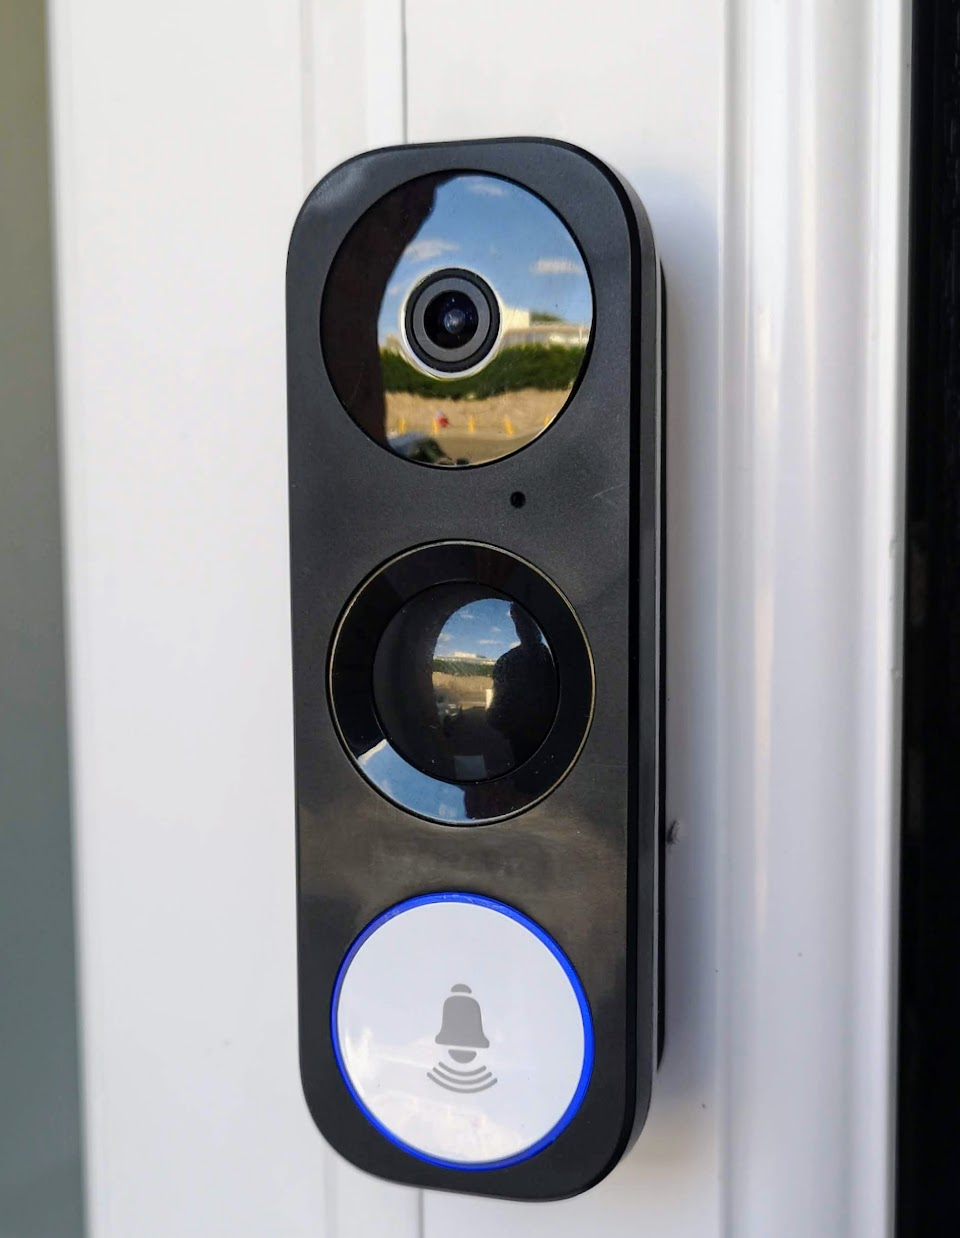
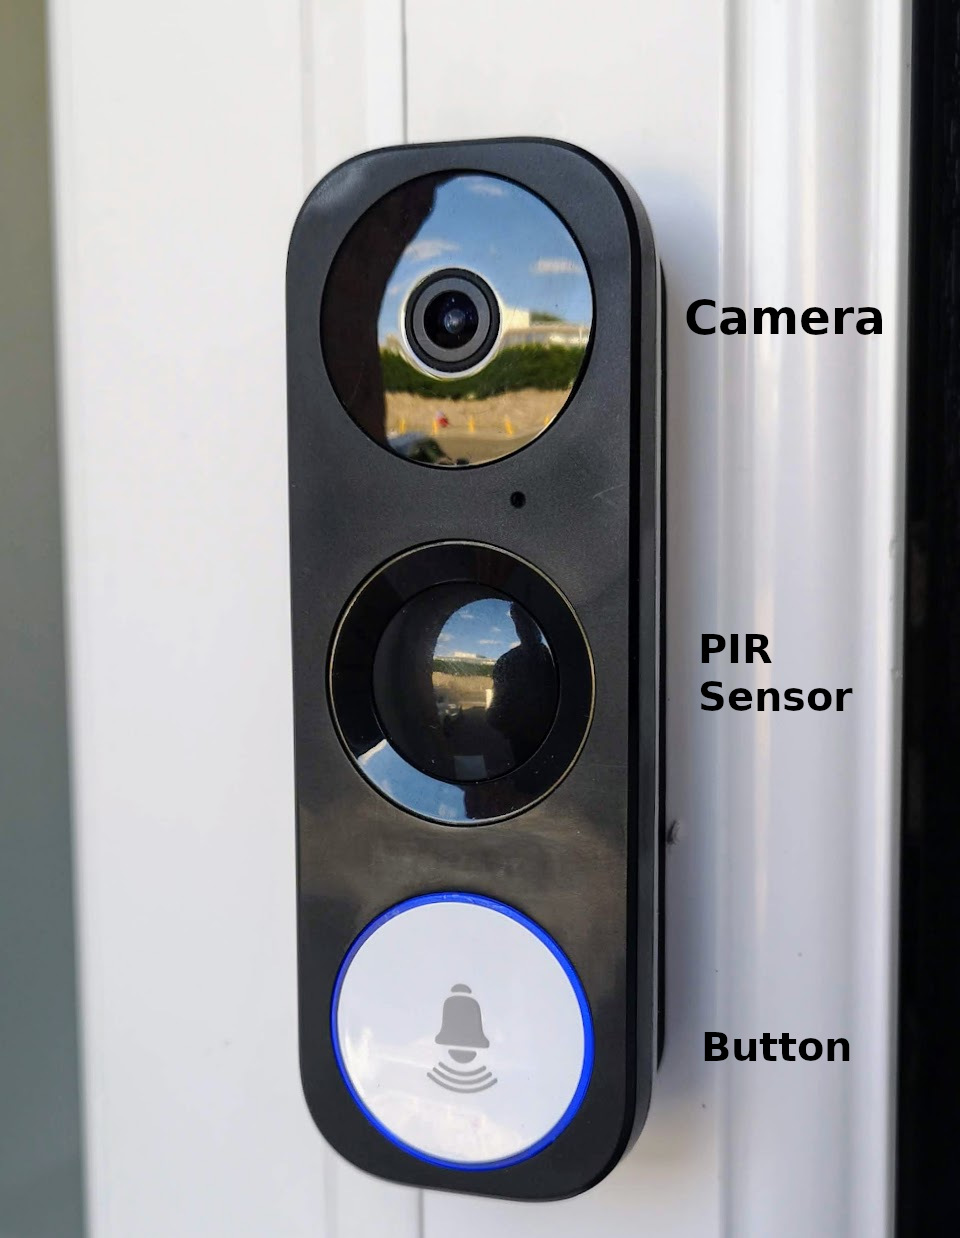
CLI deployment

Changed region(s): [[0.7188, 0.4911, 0.9062, 0.5832], [0.7188, 0.2456, 0.9375, 0.2763], [0.7188, 0.8288, 0.9062, 0.8595]]

diff --git a/current/_posts/2022-05-12-configuring-ezviz-db1-doorbell-homeassistant.md b/current/_posts/2022-05-12-configuring-ezviz-db1-doorbell-homeassistant.md
@@ -41,6 +41,7 @@ The closest popular alternative devices are the Nest Doorbell (Wired) and the Ri
 ### Cons
 - Button press events **not exposed** via API, and therefore can't be automated against without a bit of hacking.
 - The device can support **only three simultanous streaming clients**. 
+- Some visitors, from pensioners to PhDs, inexplicably press the PIR sensor instead of the button. Even with the faceplate button swapped to make it the only contrasting element in the design, some people continue to jab at the PIR sensor (and can't even tell me why). More work required perhaps.
 - There are a **confusing number of firmwares** available, each of which have different pros and cons.
 - There are **multiple apps to choose from**, none of which are perfect, and most of which reliably fail to receive calls from the doorbell.
 - Despite its main operation being local-network or peer-to-peer, it tries to open up a **lot of connections to internet servers**. Should I trust the Chinese state-owned [Hangzhou Hikvision Digital Technology Company](https://en.wikipedia.org/wiki/Hikvision) more or less than Google or Amazon?
@@ -56,7 +57,7 @@ First, I need to acknowledge that I am indebted to the IPCamTalk community and t
 
 In the sections below I discuss not just my conclusions and recommendations, but also how I arrived at each solution. You can read this post linearly, or jump to the bit you're most interested in:
 
-- For improving the physical look of the device, see my previous post on [removing the logo and swapping buttons](2022/03/improving-ezviz-db1-doorbell).
+- For improving the physical look of the device and swapping button colours, see my previous post on [removing the logo and swapping buttons](2022/03/improving-ezviz-db1-doorbell). 
 - [Detecting the button being pressed](#detecting-button-presses)
 - [Choosing a desktop configuration tool, and how to use it](#the-desktop-configuration-tool)
 - [Choosing and changing the firmware](#changing-the-firmware)
@@ -797,6 +798,9 @@ From this list, the "**public1.114dns.com**" / `114.114.114.114` DNS server coul
 
 ---
 # The End
+
+If you would like to add any comments or corrections, please join the discussion over at my [Home Assistant community post](https://community.home-assistant.io/t/ezviz-db1-hikvision-hd1-doorbell-with-shelly-uni-general-deepdive/).
+
 ---
 
 {: .callout }
